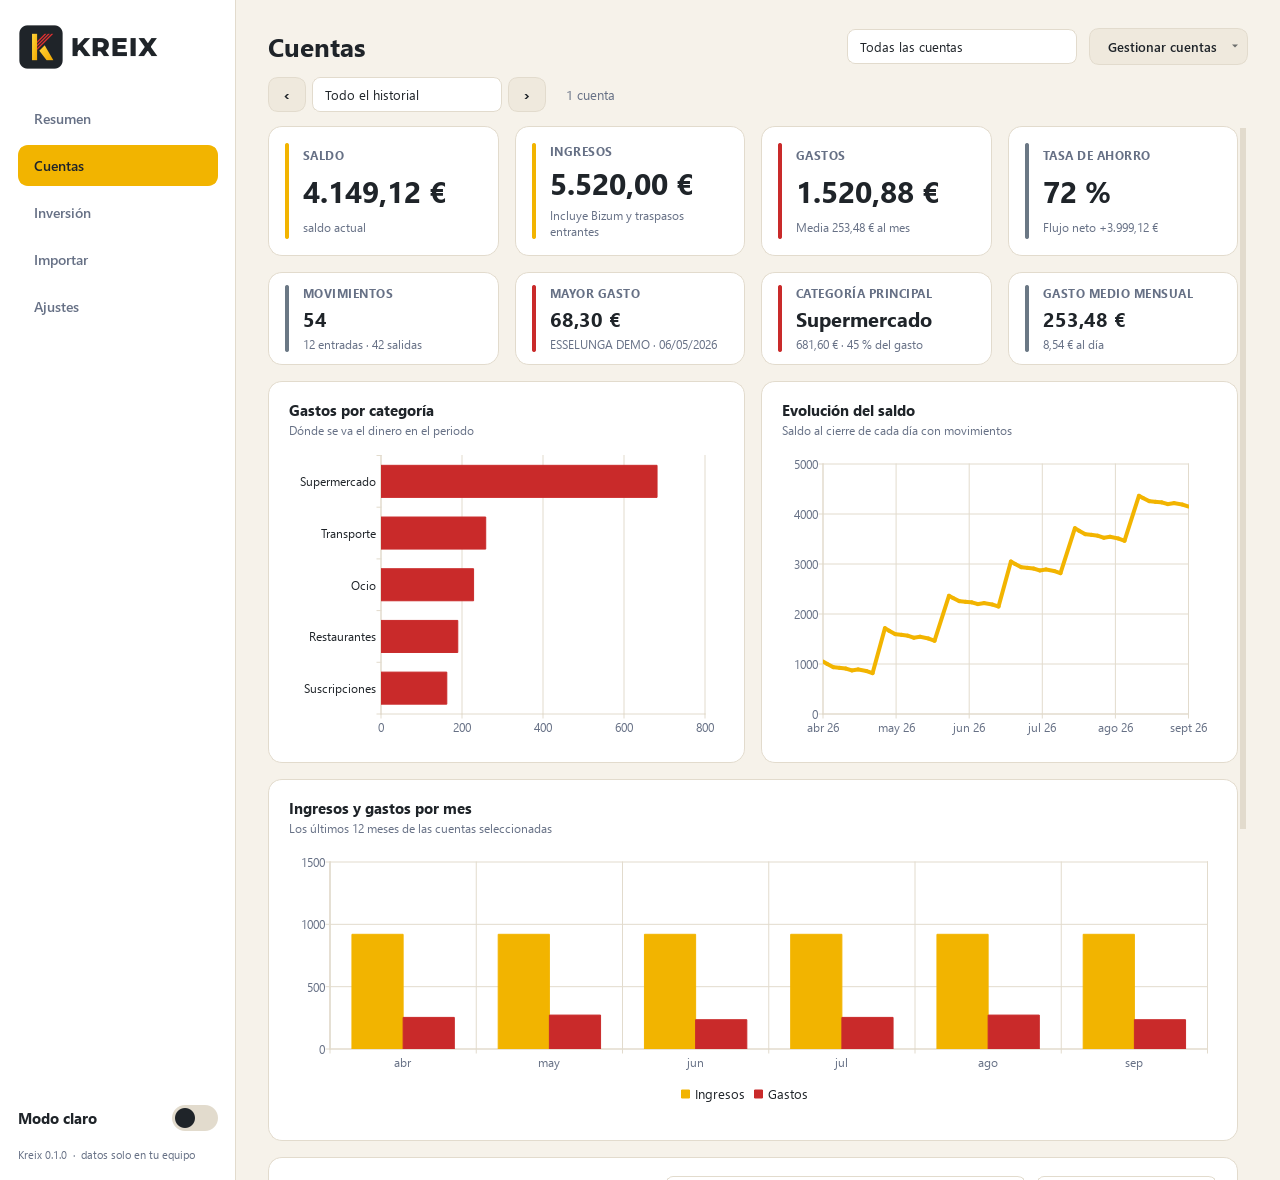
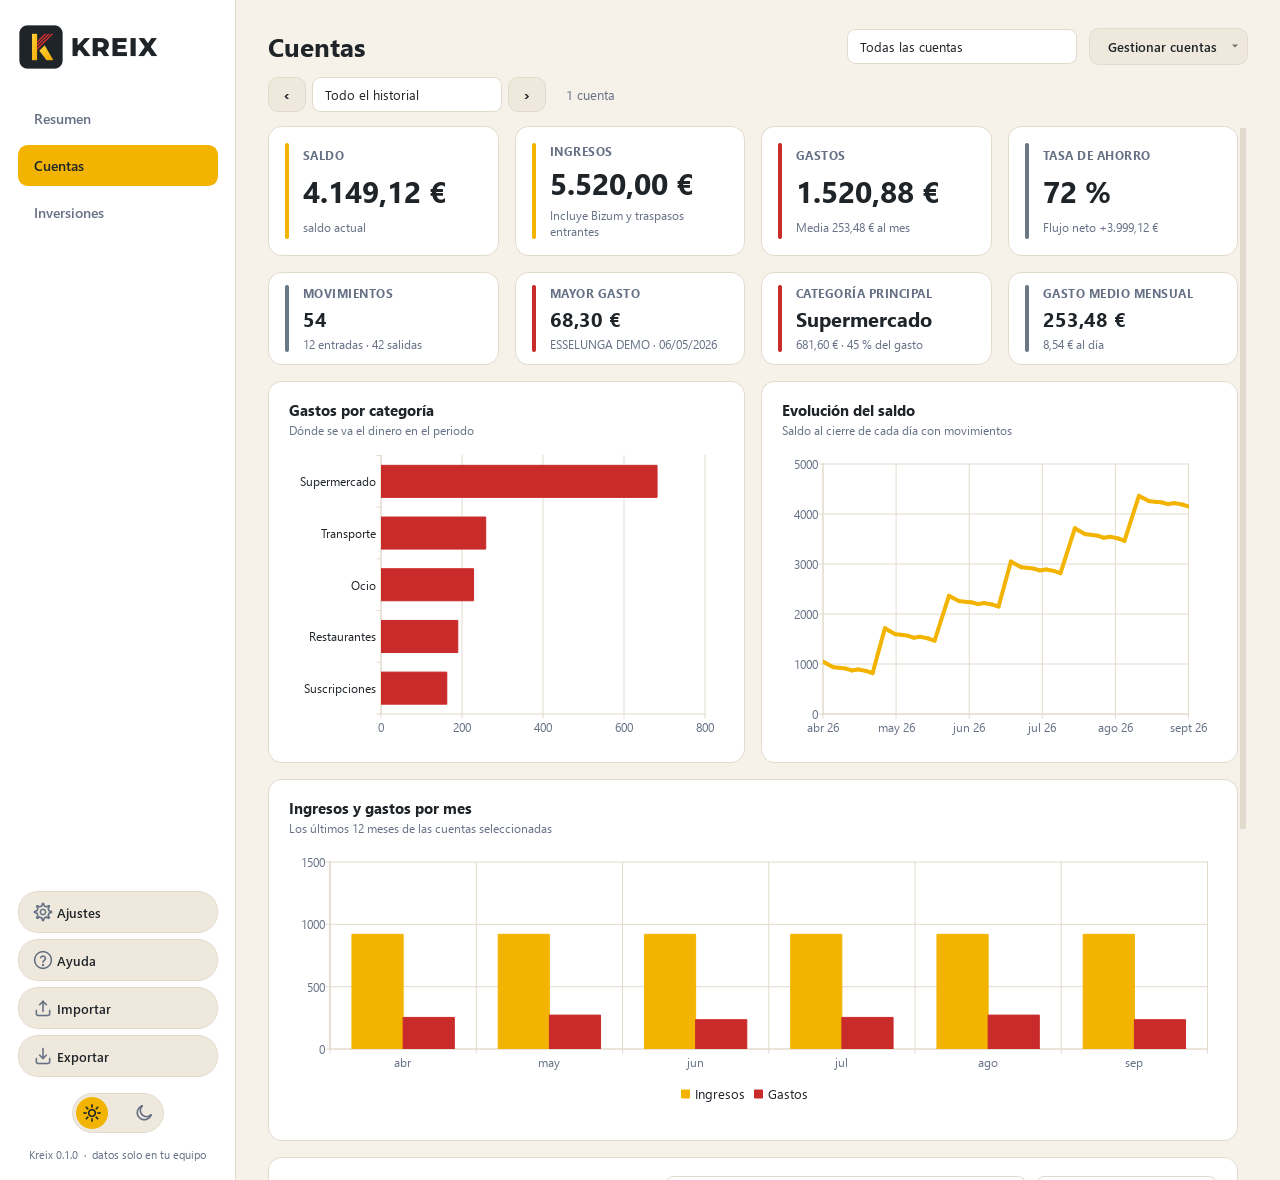
README con la nueva barra lateral, Ayuda y Exportar; capturas actualizadas

Changed region(s): [[0.0, 0.7322, 0.1875, 1.0], [0.0312, 0.2136, 0.0625, 0.2746]]

diff --git a/tools/screenshots.py b/tools/screenshots.py
@@ -45,7 +45,8 @@ def main() -> None:
     window.import_view.import_paths([str(p) for p in sorted((tmp / "demo").glob("*.csv"))])
     shot("importar-oscuro")
 
-    tabs = (("resumen", window.SUMMARY), ("cuentas", window.ACCOUNTS), ("inversion", window.INVESTMENT))
+    tabs = (("resumen", window.SUMMARY), ("cuentas", window.ACCOUNTS), ("inversion", window.INVESTMENT),
+            ("ayuda", window.HELP), ("exportar", window.EXPORT))
     for theme_name, suffix in (("dark", "oscuro"), ("light", "claro")):
         window.apply_theme(theme_name)
         for name, page in tabs:

diff --git a/README.md b/README.md
@@ -28,19 +28,32 @@
 
 ## Las pestañas
 
+Arriba a la izquierda están las tres vistas de tus datos; abajo, en forma de píldora con icono, las herramientas, y debajo el conmutador de modo claro y oscuro (un sol y una luna).
+
 | Pestaña | Para qué sirve |
 |---|---|
 | **Resumen** | Patrimonio neto, rendimiento global y tasa de ahorro del mes, con la distribución de activos y la evolución patrimonial. |
 | **Cuentas** | Todo lo de tus cuentas bancarias: saldo, ingresos, gastos, tasa de ahorro, gasto medio, mayor gasto y categoría principal; gastos por categoría, evolución del saldo, ingresos y gastos por mes; y la tabla de movimientos. |
-| **Inversión** | Todo lo de tu cartera: valor, aportado, plusvalía, rentabilidad (TWR y TIR), distribución por fondo, aportado frente a valor, posiciones actuales y operaciones. |
-| **Importar** | Arrastra extractos y elige a qué cuenta pertenecen. |
+| **Inversiones** | Todo lo de tu cartera: valor, aportado, plusvalía, rentabilidad (TWR y TIR), distribución por fondo, aportado frente a valor, posiciones actuales y operaciones. |
 | **Ajustes** | Qué cuenta como ingreso, borrar datos, ruta de la base de datos. |
+| **Ayuda** | Qué significa cada cifra y cada gráfico, explicado sin tecnicismos y con ejemplos. Tiene buscador. |
+| **Importar** | Arrastra extractos y elige a qué cuenta pertenecen. También restaura un archivo `.kreix`. |
+| **Exportar** | Guarda todos tus datos en un único archivo `.kreix` para hacer una copia o llevarlos a otro ordenador. |
 
-Atajos: `Ctrl+1` a `Ctrl+5` cambian de pestaña y `Ctrl+T` alterna el modo claro y oscuro.
+Atajos: `Ctrl+1` a `Ctrl+7` cambian de página en el orden de la tabla y `Ctrl+T` alterna el modo claro y oscuro.
+
+**Ayuda.** Un glosario para quien no sabe de finanzas: patrimonio neto, tasa de ahorro, valor liquidativo, plusvalía, TWR, TIR y el resto de términos que muestra Kreix. Cada uno explica qué es, cómo lo calcula Kreix y da un ejemplo con números. Buscar "tir" encuentra la TIR, pero no "invertir".
+
+**Exportar y mover tus datos.** *Exportar* crea un archivo `.kreix` (un ZIP con una copia consistente de la base de datos y una ficha con la versión y los totales). Para llevarlo a otro ordenador, instala Kreix allí, ve a *Importar* y arrastra el archivo: los datos quedan idénticos a los de origen (cuentas, movimientos, categorías, operaciones, cartera y ajustes, incluida la protección anti-duplicados). Importar un `.kreix` **reemplaza** los datos que hubiera en ese ordenador, y pide confirmación si ya había datos. Un archivo recibido se trata como no fiable: solo se aceptan sus dos entradas, se comprueba la integridad de la base de datos y se rechaza si trae disparadores o vistas, si es de una versión más reciente o si es demasiado grande. **El archivo no está cifrado**: contiene tu información financiera, guárdalo en un sitio seguro.
 
 <p align="center">
   <img src="docs/screenshots/cuentas-oscuro.png" alt="Pestaña Cuentas" width="49%">
-  <img src="docs/screenshots/inversion-claro.png" alt="Pestaña Inversión" width="49%">
+  <img src="docs/screenshots/inversion-claro.png" alt="Pestaña Inversiones" width="49%">
+</p>
+
+<p align="center">
+  <img src="docs/screenshots/ayuda-oscuro.png" alt="Página de Ayuda" width="49%">
+  <img src="docs/screenshots/exportar-claro.png" alt="Página de Exportar" width="49%">
 </p>
 
 **Por mes o en global.** En Cuentas e Inversión, el selector de arriba cambia entre "Todo el historial" y cada mes con datos (las flechas saltan al mes anterior o siguiente). Las métricas, los gráficos y las tablas se ajustan al periodo elegido:
@@ -114,7 +127,7 @@ Clean Architecture: las dependencias apuntan hacia el dominio, y `core` no sabe 
 ```
 main.py                 ensambla las capas y arranca la interfaz
 ui/                     PySide6: ventana, vistas, gráficos, tema claro/oscuro
-services/               casos de uso: importar, resumen, cuentas, inversión, ajustes
+services/               casos de uso: importar, resumen, cuentas, inversión, ajustes, exportar/restaurar
 etl/                    lectores de CSV/Excel y parsers (Imagin, MyInvestor), cuadre
 data/                   modelos SQLAlchemy, repositorios idempotentes y migraciones
 core/                   lógica pura: métricas (generales, por cuenta y de inversión),
@@ -144,13 +157,13 @@ Los tests de interfaz usan Qt sin pantalla (`QT_QPA_PLATFORM=offscreen`) y simul
 
 - Importar extractos en PDF.
 - Migraciones de base de datos con Alembic.
-- Cifrado de la base de datos.
+- Cifrado de la base de datos y del archivo `.kreix` exportado.
 - Reglas de categorización editables desde la interfaz.
 - Empaquetado como ejecutable (`.exe` / `.app`).
 
 ## Privacidad
 
-Los extractos bancarios son datos sensibles. El repositorio ignora por defecto las bases de datos (`*.db`) y la carpeta `ejemplos/`. No subas extractos reales al control de versiones.
+Los extractos bancarios son datos sensibles, y el archivo `.kreix` exportado también (no está cifrado). El repositorio ignora por defecto las bases de datos (`*.db`) y la carpeta `ejemplos/`. No subas extractos reales al control de versiones.
 
 ## Licencia
 
